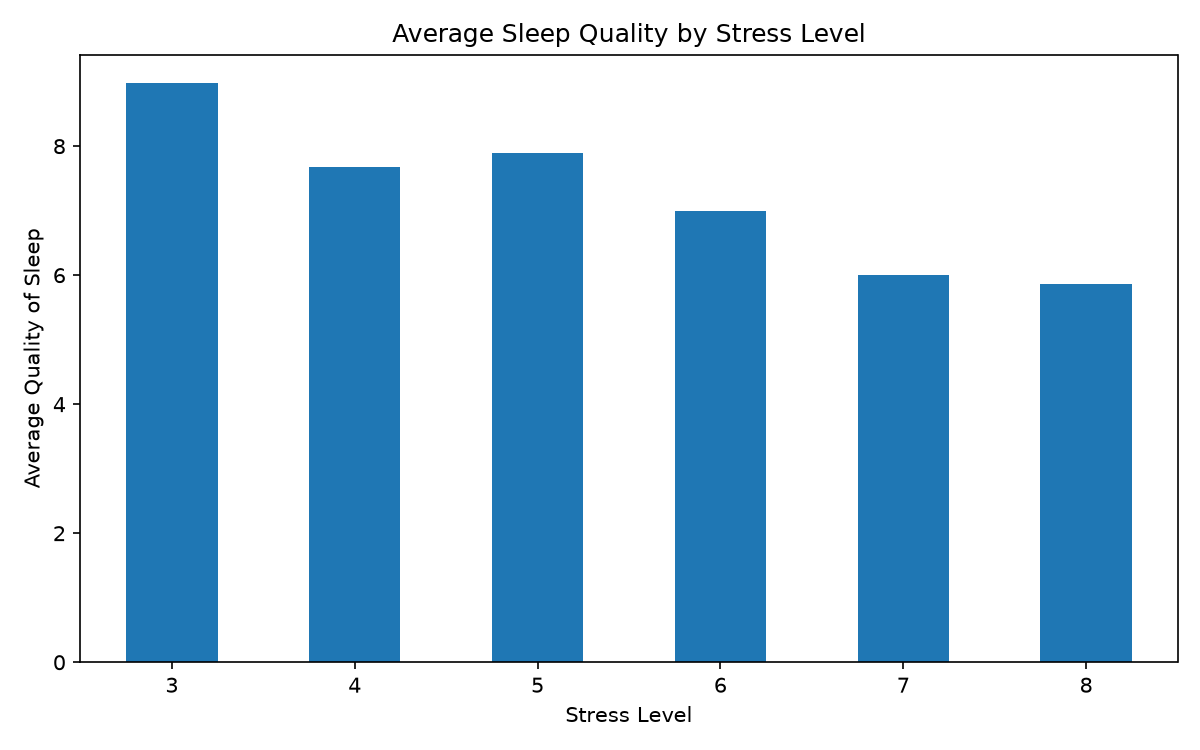
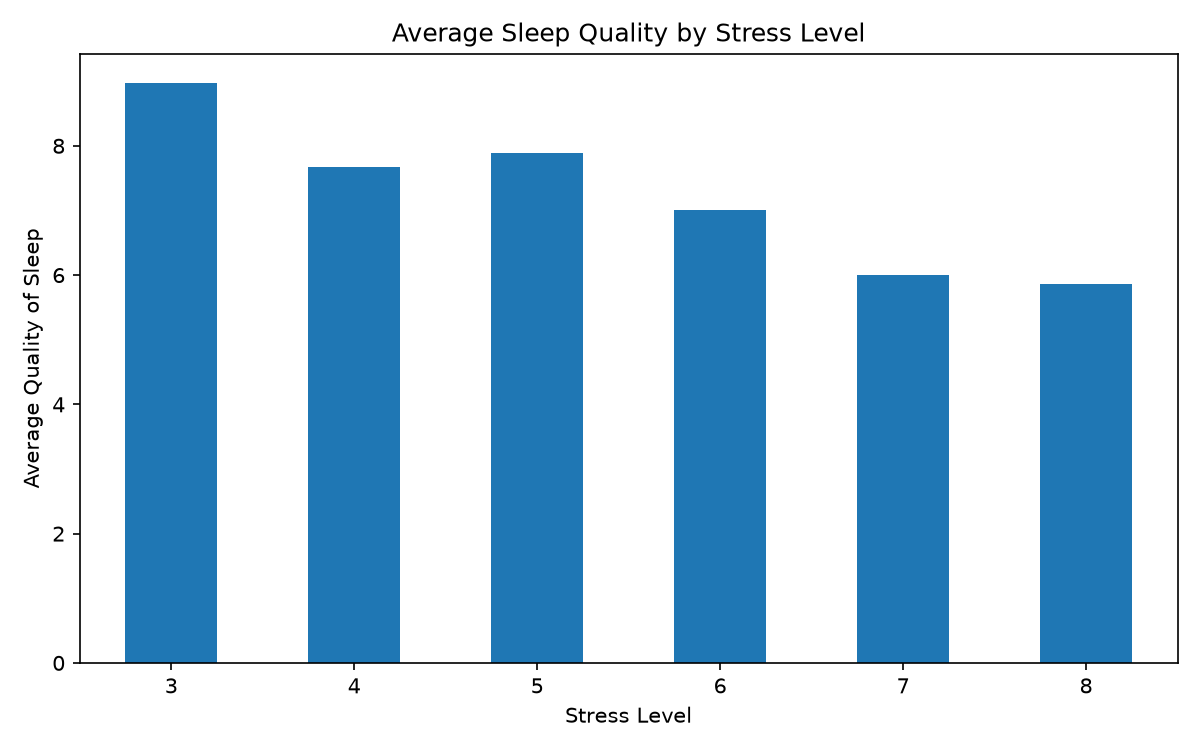
Add outlier check (IQR) and factor ranking with Spearman correlation chart

diff --git a/EDA_Dataset.py b/EDA_Dataset.py
@@ -87,6 +87,22 @@ def print_group_summary(label, group):
     print("Average sleep quality:", round(group["Quality of Sleep"].mean(), 2))
 
 
+def find_outliers(df, column):
+    """Return rows outside the IQR range (1.5 x IQR below Q1 or above Q3)."""
+    q1 = df[column].quantile(0.25)
+    q3 = df[column].quantile(0.75)
+    iqr = q3 - q1
+    lower = q1 - 1.5 * iqr
+    upper = q3 + 1.5 * iqr
+    return df[(df[column] < lower) | (df[column] > upper)]
+
+
+def rank_factors(df, method="spearman"):
+    """Correlation of each feature with sleep quality, strongest first."""
+    corr = df[FEATURES].corrwith(df[TARGET], method=method)
+    return corr.reindex(corr.abs().sort_values(ascending=False).index)
+
+
 # --- Visualisation ---
 
 
@@ -127,6 +143,19 @@ def make_plots(df):
     plt.xlabel("Stress Level (1-10)")
     plt.ylabel("Quality of Sleep (1-10)")
     save_plot("stress_vs_quality.png")
+
+    # Answers the research question: which factors matter most?
+    # Red = more of it means worse sleep, blue = better sleep.
+    factors = rank_factors(df).iloc[::-1]
+    factors.plot(
+        kind="barh",
+        color=["tab:red" if value < 0 else "tab:blue" for value in factors],
+        figsize=(8, 5),
+    )
+    plt.axvline(0, color="black", linewidth=0.8)
+    plt.title("Which Factors Line Up With Sleep Quality?")
+    plt.xlabel("Spearman correlation with Quality of Sleep")
+    save_plot("factor_correlations.png")
 
 
 # --- Machine learning ---
@@ -298,6 +327,15 @@ def main():
         .sort("BMI Category")
     )
 
+    print("\nOutliers per numeric column (IQR rule):")
+    for column in FEATURES:
+        print(f"{column}: {len(find_outliers(df, column))}")
+
+    # FINDING 4: Only Heart Rate has outliers (15 records, 80-86 bpm).
+    # I kept them: 80-86 bpm is still a normal resting heart rate, and
+    # most of these people are overweight or obese with sleep apnea,
+    # so they are real cases, not data errors.
+
     # --- Performance comparison ---
 
     section("7. PANDAS VS POLARS PERFORMANCE")
@@ -356,6 +394,9 @@ def main():
     # --- Machine learning ---
 
     section("8. MACHINE LEARNING")
+
+    print("\nWhich factors line up with sleep quality (Spearman):")
+    print(rank_factors(df).round(2))
 
     # I chose linear regression as a simple first model because my target
     # and the features I selected are numeric.

diff --git a/tests/test_analysis.py b/tests/test_analysis.py
@@ -138,4 +138,22 @@ def test_print_group_summary(capsys):
     assert "Average sleep quality: 6.0" in printed
 
 
+def test_find_outliers():
+    df = pd.DataFrame({"Heart Rate": [70, 71, 72, 73, 74, 150]})
+    outliers = eda.find_outliers(df, "Heart Rate")
+
+    assert len(outliers) == 1
+    assert outliers["Heart Rate"].iloc[0] == 150
+
+
+def test_rank_factors():
+    df = eda.clean_data(eda.load_data(CSV))
+    ranking = eda.rank_factors(df)
+
+    assert len(ranking) == len(eda.FEATURES)
+    assert ranking.index[0] == "Stress Level"
+    # sorted by strength, strongest first
+    assert list(ranking.abs()) == sorted(ranking.abs(), reverse=True)
+
+
 # to run write "pytest" in the terminal
